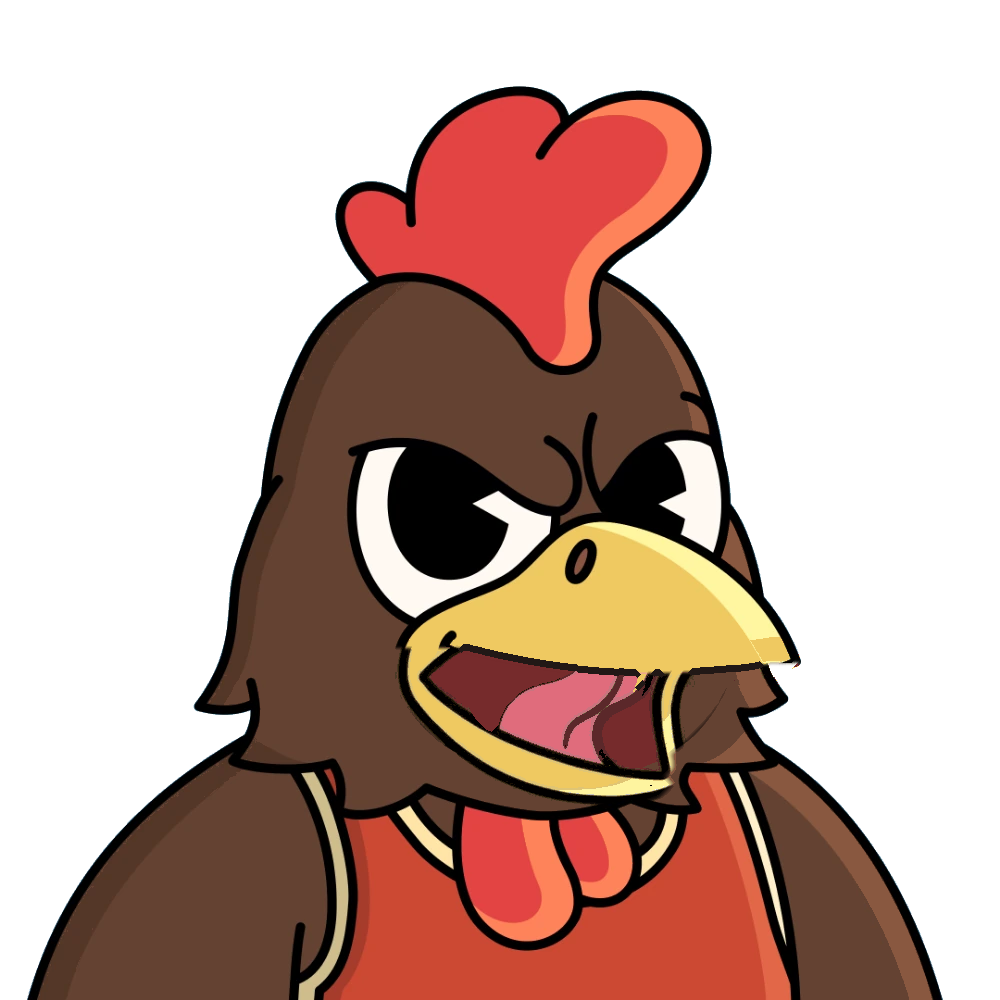
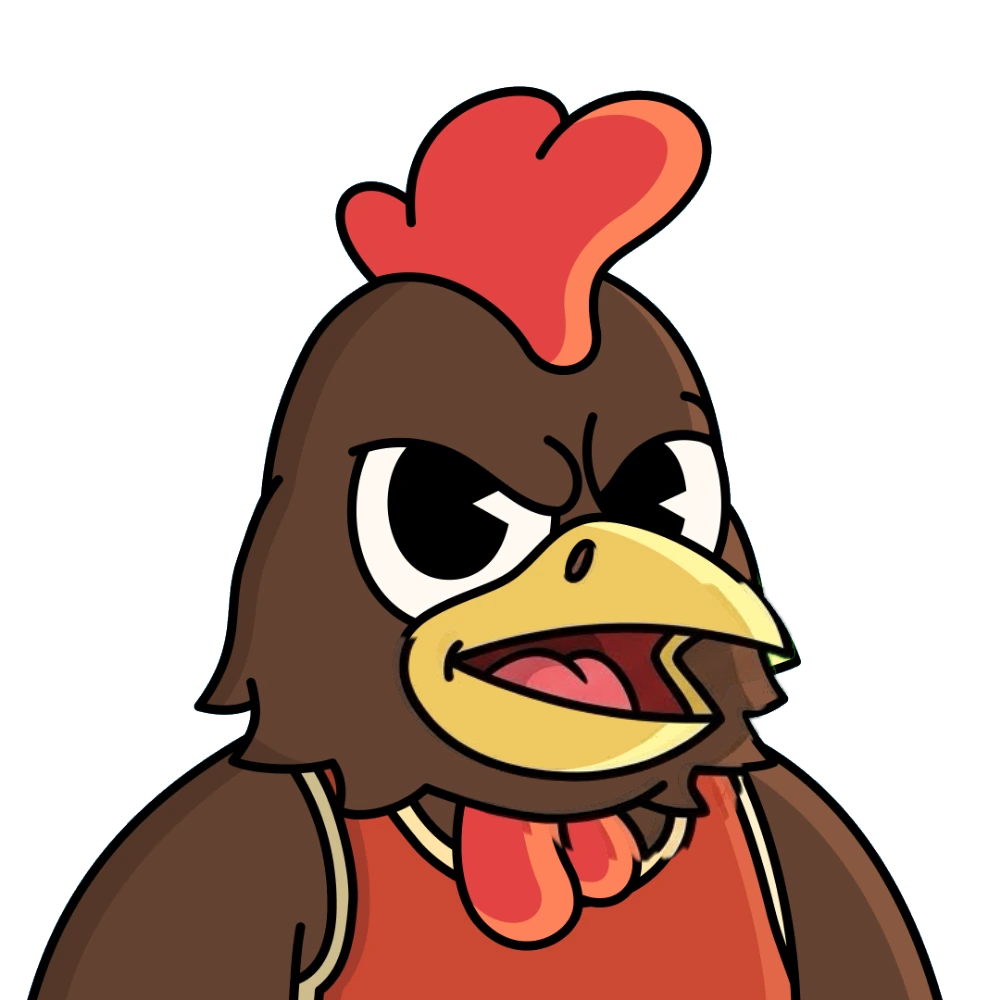
Nine kit mouths redrawn from GEAUX's new sheets (cock O and L, gecko small open and L, gnome F/V and frown, bear shut and F/V, raccoon small open), lined up to each kit picture by tools/kit_from_panels.py: those five kinds go from 66 to 99 of 151 Nibbles passing the check; art version bump
Claude-Session: https://claude.ai/code/session_01AAjfD4JXrwKrGtAMJHTTVa

Changed region(s): [[0.403, 0.589, 0.806, 0.868], [0.558, 0.558, 0.589, 0.589]]

diff --git a/beta/index.html b/beta/index.html
@@ -499,7 +499,7 @@ const codeURL = f => new URL(CODE + f + '?v=' + ART_V, document.baseURI).href;
 // (and when one won't load, the tracking device notes the address and what the server said, so a phone's failure can be told
 // apart: not found, a network drop, or the script itself)
 const codeImport = f => import(codeURL(f)).catch(async e => { try { const r = await fetch(codeURL(f), { cache:'no-store' }); trk('importFailed', [codeURL(f), r.status, (r.headers.get('content-type') || '').slice(0, 40), String(e && e.message || e).slice(0, 120)]); } catch (e2) { trk('importFailed', [codeURL(f), 'no answer', String(e2).slice(0, 80)]); } throw e; });   // (the beta copy keeps its own code in beta/; art and data are shared)
-const ART_V = '20261123-2100';   // bump when art changes, so phones never show old cached frames
+const ART_V = '20261124-0230';   // bump when art changes, so phones never show old cached frames
 const MP_MODEL = 'https://storage.googleapis.com/mediapipe-models/face_landmarker/face_landmarker/float16/1/face_landmarker.task';
 
 // Each Nibble: eye layers e0–e4 and ten whole-face mouth frames m0–m9, all lined up at 1000×1000.

diff --git a/tools/kit_from_panels.py b/tools/kit_from_panels.py
@@ -1,0 +1,88 @@
+# A kit's talking mouths from a Gemini sheet of panels on green (23 Nov: the nine mouths the all-Nibbles check found
+# drawn with a flaw). Each panel is cut off the green, lined up with the kit picture (scale and shift, by the outline), and
+# only its mouth goes into the kit: inside the area the kit's mouths change (grown a little), the panel; everywhere else
+# the kit picture. Then the panel's colours within a shade of the kit picture's become the kit picture's own (no
+# re-shaded patches), and anything outside the mouth goes back (tools/kit_trim.py does that part).
+# Usage: python3 tools/kit_from_panels.py <kit> <sheet> <frame>[,<frame>...]   (frames left to right; back up first)
+import sys, os, numpy as np, cv2
+from PIL import Image
+from scipy import ndimage
+ref, sheet, ks = sys.argv[1], sys.argv[2], [int(k) for k in sys.argv[3].split(',')]
+B = np.array(Image.open(f'faces/{ref}/base.webp').convert('RGBA')).astype(np.float32); N = B.shape[0]
+S = np.array(Image.open(sheet).convert('RGB')).astype(np.float32)
+r, g, b = S[..., 0], S[..., 1], S[..., 2]
+green = (g > 150) & (g > r * 1.4) & (g > b * 1.4)
+# panels: runs of columns with picture in them
+col = (~green).sum(0) > 3; runs = []; x = 0
+while x < len(col):
+    if col[x]:
+        x0 = x
+        while x < len(col) and col[x]: x += 1
+        if x - x0 > 100: runs.append((x0, x))
+    x += 1
+assert len(runs) == len(ks), f'{len(runs)} panels found, {len(ks)} frames given'
+bm = (B[..., 3] > 128).astype(np.float32)
+def place(P, a, s, dx, dy):
+    M = np.float32([[s, 0, dx], [0, s, dy]])
+    return cv2.warpAffine(P, M, (N, N), flags=cv2.INTER_LINEAR, borderValue=0), cv2.warpAffine(a, M, (N, N), flags=cv2.INTER_LINEAR, borderValue=0)
+# the mouth area: where the kit's current talking mouths change anything, grown
+zone0 = np.zeros((N, N), bool)
+for j in range(1, 10):
+    m = np.array(Image.open(f'faces/{ref}/m{j}.webp').convert('RGBA')).astype(np.float32)
+    vis = (m[..., 3] > 128) | (B[..., 3] > 128)
+    zone0 |= vis & (np.abs(m[..., :3] - B[..., :3]).sum(-1) > 60)
+zone0 = ndimage.binary_dilation(ndimage.binary_opening(zone0, iterations=2), iterations=24)
+# (the fine fit weighs the ink round the mouth: the face there has to line up, not the whole picture (a cock's beak, drawn a
+#  little smaller, came out with two upper edges))
+near0 = ndimage.binary_dilation(zone0, iterations=60) & ~zone0 | zone0
+for (x0, x1), k in zip(runs, ks):
+    P = S[:, x0:x1].copy(); pa = (~green[:, x0:x1]).astype(np.float32)
+    pa = ndimage.binary_opening(pa > 0, iterations=2).astype(np.float32)
+    # despill: green fringe pixels toward their neighbours' colour
+    edge = ndimage.binary_dilation(pa == 0, iterations=2) & (pa > 0)
+    P[edge, 1] = np.minimum(P[edge, 1], (P[edge, 0] + P[edge, 2]) / 2 + 20)
+    # line up: the panel's outline against the kit picture's, over scale and shift (coarse at 1/4 size, then fine)
+    best = (-1, 0, 0, 0)
+    ys, xs = np.where(pa > 0); hp = ys.max() - ys.min(); yb, xb = np.where(bm > 0); hb = yb.max() - yb.min()
+    s0 = hb / max(1, hp)
+    small = lambda a: cv2.resize(a, (N // 4, N // 4), interpolation=cv2.INTER_AREA)
+    bs = small(bm)
+    for s in np.arange(s0 * 0.9, s0 * 1.1, 0.005):
+        pw = cv2.resize(pa, None, fx=s / 4, fy=s / 4, interpolation=cv2.INTER_AREA)
+        if pw.shape[0] > bs.shape[0] * 2 or pw.shape[1] > bs.shape[1] * 2: continue
+        pad = np.zeros((bs.shape[0] * 3, bs.shape[1] * 3), np.float32); oy, ox = bs.shape[0], bs.shape[1]
+        pad[oy:oy + bs.shape[0], ox:ox + bs.shape[1]] = bs
+        res = cv2.matchTemplate(pad, pw.astype(np.float32), cv2.TM_CCORR_NORMED)
+        _, v, _, loc = cv2.minMaxLoc(res)
+        if v > best[0]: best = (v, s, (loc[0] - ox) * 4, (loc[1] - oy) * 4)
+    v, s, dx, dy = best
+    # fine: the dark lines (ink) against the kit picture's, ±6 px and ±1% scale
+    bl = (B[..., :3].sum(-1) < 200) & (B[..., 3] > 200)
+    bl = ndimage.gaussian_filter((bl & near0).astype(np.float32), 2)
+    fine = (-1, s, dx, dy)
+    for ss in (np.arange(s * 0.96, s * 1.041, 0.005) if not os.environ.get("QUICK") else [s]):
+        for ddx in (range(-16, 17, 2) if not os.environ.get("QUICK") else [0]):
+            for ddy in (range(-16, 17, 2) if not os.environ.get("QUICK") else [0]):
+                Pw, aw = place(P, pa, ss, dx + ddx, dy + ddy)
+                il = ndimage.gaussian_filter(((Pw.sum(-1) < 200) & (aw > 0.5) & near0).astype(np.float32), 2)
+                sc = (il * bl).sum() / np.sqrt((il * il).sum() * (bl * bl).sum() + 1e-6)
+                if sc > fine[0]: fine = (sc, ss, dx + ddx, dy + ddy)
+    sc, s, dx, dy = fine
+    Pw, aw = place(P, pa, s, dx, dy)
+    print(ref, k, 'outline fit %.3f, ink fit %.3f, scale %.3f, shift %d,%d' % (v, sc, s, dx, dy))
+    zone = zone0 & (aw > 0.5) & (B[..., 3] > 128)
+    # (UP=<px>: the area reaches that much further up, for a mouth whose upper part (a cock's whole beak) the panel draws
+    #  its own way: cut through, the two beaks showed as two upper edges)
+    import os
+    if os.environ.get('UP'): u = int(os.environ['UP']); zs = np.zeros_like(zone); zs[:-u] = zone[u:]; zone = (zone | (ndimage.binary_dilation(zone, iterations=8) & np.maximum.accumulate(zs[::-1], 0)[::-1] & False) | np.any([np.roll(zone, -d, 0) for d in range(0, u, 4)], 0)) & (aw > 0.5) & (B[..., 3] > 128)
+    # (never the eyes: they're the blink layers' and this Nibble's own)
+    for e in range(1, 5):
+        fe = f'faces/{ref}/e{e}.webp'
+        if os.path.exists(fe): zone &= ~ndimage.binary_dilation(np.array(Image.open(fe).convert('RGBA'))[..., 3] > 20, iterations=8)
+    soft = ndimage.gaussian_filter(zone.astype(np.float32), 1.5)[..., None]
+    out = B.copy(); new = np.dstack([Pw, np.full((N, N), 255, np.float32)])
+    out = B * (1 - soft) + new * soft
+    # within a shade of the kit picture: the kit picture's own (no re-shaded patches)
+    near = (np.abs(out[..., :3] - B[..., :3]).sum(-1) < 40) & (B[..., 3] > 250)
+    out[near] = B[near]
+    Image.fromarray(np.clip(out, 0, 255).astype(np.uint8)).save(f'faces/{ref}/m{k}.webp', 'WEBP', lossless=True)

diff --git a/tools/test/teeth_check.py b/tools/test/teeth_check.py
@@ -9,6 +9,9 @@ from scipy import ndimage
 ORIG = '6bdb1fb'
 KITS = ['1680', '1992', '310', '67', '6965', '757', '929', 'k929b', 'k2757', 'k500', 'k5842']   # (k4946, the mummy: its white is bandage, not teeth)
 BEAVER = {'929', 'k929b'}
+# (mouths redrawn from a new sheet since: their teeth sit somewhere else, so the first-made frame says nothing about them;
+#  looked at by eye when they went in, 24 Nov)
+REDRAWN = {('1680', 1), ('1680', 7), ('67', 7), ('67', 9), ('310', 5), ('310', 8), ('6965', 2), ('6965', 8), ('1992', 2)}
 white = lambda a: (a[..., 3] > 200) & (a[..., :3].min(-1) >= 195) & (a[..., :3].max(-1) - a[..., :3].min(-1) <= 50)
 bad = 0
 for ref in KITS:
@@ -19,7 +22,7 @@ for ref in KITS:
         except Exception: continue
         if o.shape != a.shape: continue
         n = 0
-        if k not in (5, 6):
+        if k not in (5, 6) and (ref, k) not in REDRAWN:
             tw = ndimage.binary_erosion(white(o), iterations=1)
             n = int((tw & ~white(a) & (a[..., :3].sum(-1) > 250) & (a[..., 3] > 200)).sum())
         if ref in BEAVER:   # the buck teeth: as many tooth pixels as the picture has, in every frame
